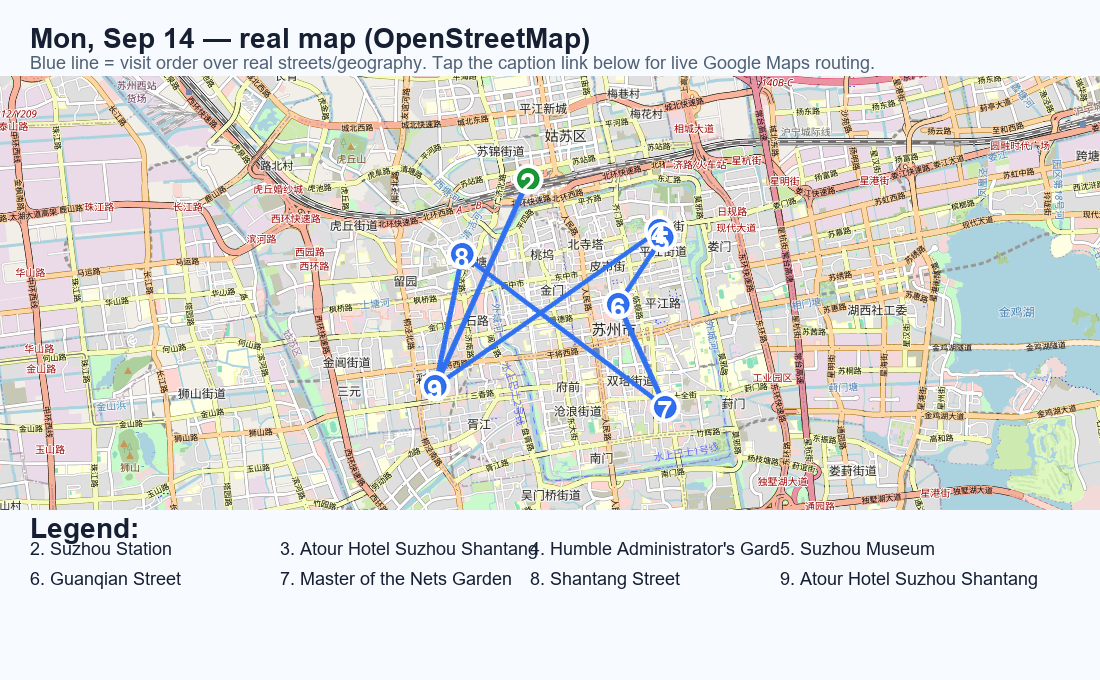
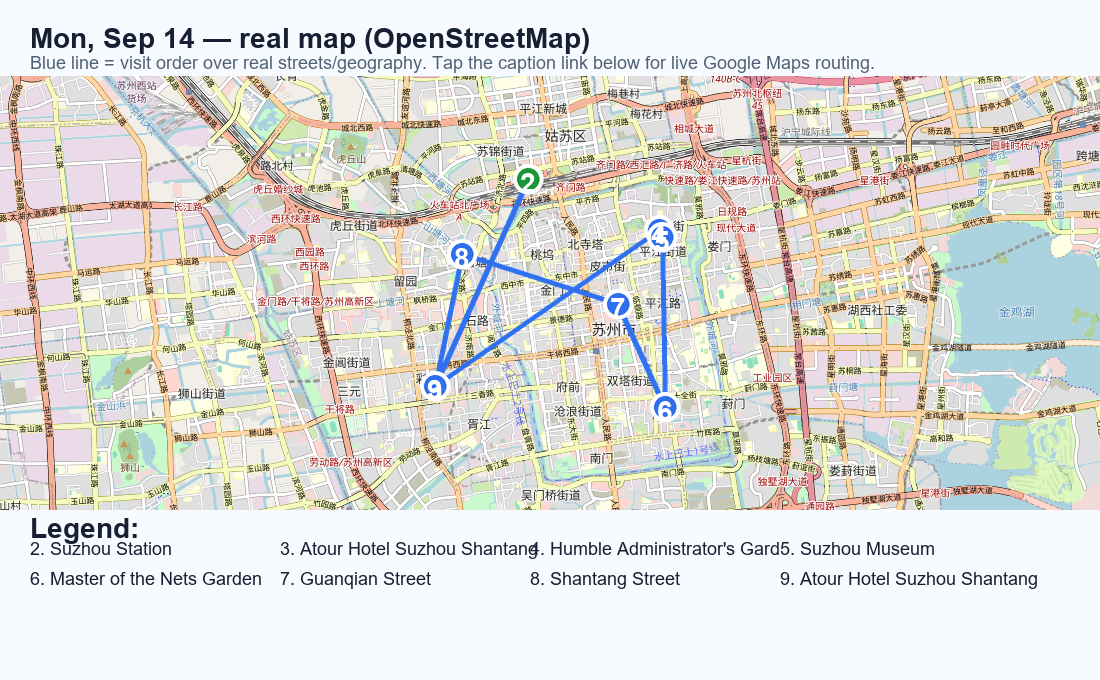
Sep 14: reorder Suzhou old-town loop to remove backtracking, renumber stops to match map
Reordered cards so Master of the Nets Garden (south old town) is visited right after Humble
Garden/Suzhou Museum (NE cluster) before returning north for lunch/Shantang, eliminating the
old zigzag where Nets Garden then Shantang crossed the old town twice. Numbered all named
stops with the map pin order for both EN and ZH text.

Copilot-Session: 5728fe09-5b5d-49bb-90e8-1375c7d7759c

diff --git a/Taipei-China-Itinerary.html b/Taipei-China-Itinerary.html
@@ -214,21 +214,23 @@ a{color:var(--acc)}
 </details>
 <details class="day" data-date="2026-09-14">
 <summary><span class="date">Mon, Sep 14</span><span class="hl en">Hongqiao → Suzhou old town</span><span class="hl zh">虹桥 → 苏州老城</span><span class="tag en">🚄 Gardens · Shantang</span><span class="tag zh">🚄 园林 · 山塘夜</span></summary>
-<div class="body"><ul class="plan"><li><span class="en">🚄 <b>Shanghai Hongqiao → Suzhou Station ✅ Booked</b> (<b>G8302</b>, 08:52–09:19, Gate 28B, 1st Class Car 07 Seat 08C, Order #EK92820804); drop luggage at <b>Atour Hotel Suzhou Shantang Street Guangjinan Road Metro Station</b> (Sep 14–15 booked, 1 family twin room with breakfast, No. 889 Ganjiang W. Rd., Gusu District).</span><span class="zh">🚄 <b>上海虹桥 → 苏州站 ✅ 已订</b>（<b>G8302</b> 08:52–09:19，检票口 28B，一等座 07车08C号，已支付 ￥67.0，订单号 EK92820804）；到后先去<b>苏州山塘街广济南路地铁站亚朵酒店</b>放行李（9/14–9/15 已订，1 间 1 晚，尊享亲子双床房含早，姑苏区干将西路889号）。</span></li>
-<li><span class="en">08:20–10:20 <b>Humble Administrator's Garden</b> → 10:25–10:40 <b>Suzhou Museum exterior only</b>. It is Monday and the museum interior is closed. Continue to a seated <b>Guanqian Street</b> lunch and protect the 12:20–14:15 hotel rest. <b>🍽 Lunch picks (Guanqian St, pick 1):</b> ① <b>Songhelou (松鹤楼)</b>, Taijian Alley 72 — 200-yr-old Suzhou-cuisine flagship, signature squirrel-shaped mandarin fish; ② <b>Deyuelou (得月楼)</b>, Taijian Alley 43 — classic sister restaurant, same dish plus stir-fried river shrimp; ③ <b>Guso Family Banquet (姑苏家宴·苏帮菜)</b> near Guanqian St — museum-linked, heritage-chef-run, garden-courtyard seating with occasional pingtan (评弹) performance.</span><span class="zh">08:20–10:20 <b>拙政园</b> → 10:25–10:40 <b>苏州博物馆仅看外观</b>；9/14 是周一，馆内闭馆。观前街坐下午餐，12:20–14:15 回酒店午休。<b>🍽 观前街午餐（选1家）：</b>①<b>松鹤楼（观前街店）</b>，太监弄72号——200多年苏帮菜老字号，招牌松鼠鳜鱼；②<b>得月楼（观前街店）</b>，太监弄43号——同为百年苏帮宴席名店，响油鳝糊、得月童鸡也出名；③<b>姑苏家宴·苏帮菜</b>（观前街附近）——苏帮菜博物馆联名、非遗传承人主理，园林造景，偶有评弹表演。</span></li>
-<li><span class="en">14:45–16:15 <b>Master of the Nets Garden</b>; after another short rest, go to <b>Shantang Street</b> for seated dinner, a canal cruise if operating, and only a 300–500 m illuminated stroll. <b>🍽 Dinner picks (Shantang St, pick 1):</b> ① <b>Guso Boat Banquet (姑苏船宴)</b>, near Baigong Ancestral Hall boat dock — dine aboard a lantern-lit canal boat while cruising, squirrel mandarin fish + osmanthus red-braised pork, book ≥3 days ahead (+86 175 2121 6208); ② <b>Rongyanglou (荣阳楼)</b> — century-old Shantang institution, homely classics like fried rice-flour dumplings and fresh-pork soup buns; ③ <b>Old Suzhou Tea House (老苏州茶酒楼)</b>, canal-facing — pingtan storytelling with dinner, seasonal Yangcheng Lake hairy crab in autumn.</span><span class="zh">14:45–16:15 <b>网师园</b>；休息后去<b>山塘街</b>坐下晚餐，游船如运营则乘船，只走300–500米灯光精华段。<b>🍽 山塘街晚餐（选1家）：</b>①<b>姑苏船宴（山塘街店）</b>，白公祠附近游船码头旁——画舫上边吃苏帮大菜边游山塘河，需提前≥3天预约（电话 +86 175 2121 6208）；②<b>荣阳楼（山塘街店）</b>——百年老店，油氽团子、鲜肉汤包等市井家常味；③<b>老苏州茶酒楼</b>，面朝山塘河——边听评弹边用餐，秋季有阳澄湖大闸蟹时令菜。</span></li>
-<li><span class="en"><b>Tiger Hill is excluded:</b> it needs roughly 2.5–4 hours plus 45–70 minutes of detour transport, with sloping/uneven paving and stairs unsuitable for Mom; cutting it protects the midday rest window. Detail: <a href='Suzhou-Day-Plan.md'>Suzhou-Day-Plan.md ↗</a></span><span class="zh"><b>虎丘删除：</b>单独约2.5–4小时，另加45–70分钟绕行，斜坡/石路/台阶不适合Mom，也会破坏午休。详案：<a href='Suzhou-Day-Plan.md'>Suzhou-Day-Plan.md ↗</a></span></li></ul>
+<div class="body"><ul class="plan"><li><span class="en"><b>Numbers ②–⑨ below match the map pin order, so you can follow along side by side.</b></span><span class="zh"><b>下方数字②–⑨与地图标点顺序一一对应，可对照阅读。</b></span></li>
+<li><span class="en">🚄 <b>① Shanghai Hongqiao → ② Suzhou Station ✅ Booked</b> (<b>G8302</b>, 08:52–09:19, Gate 28B, 1st Class Car 07 Seat 08C, Order #EK92820804); drop luggage at <b>③ Atour Hotel Suzhou Shantang Street Guangjinan Road Metro Station</b> (Sep 14–15 booked, 1 family twin room with breakfast, No. 889 Ganjiang W. Rd., Gusu District).</span><span class="zh">🚄 <b>①上海虹桥 → ②苏州站 ✅ 已订</b>（<b>G8302</b> 08:52–09:19，检票口 28B，一等座 07车08C号，已支付 ￥67.0，订单号 EK92820804）；到后先去<b>③苏州山塘街广济南路地铁站亚朵酒店</b>放行李（9/14–9/15 已订，1 间 1 晚，尊享亲子双床房含早，姑苏区干将西路889号）。</span></li>
+<li><span class="en">08:20–10:20 <b>④ Humble Administrator's Garden</b> → 10:25–10:40 <b>⑤ Suzhou Museum exterior only</b> (adjacent, same corner of the old town). It is Monday and the museum interior is closed. Continue straight to <b>⑥ Master of the Nets Garden</b> ~10:45–12:00, a short hop south, before doubling back toward the hotel side — this avoids the old zigzag of crossing the old town twice.</span><span class="zh">08:20–10:20 <b>④拙政园</b> → 10:25–10:40 <b>⑤苏州博物馆仅看外观</b>（紧邻拙政园）；9/14 是周一，馆内闭馆。随即南下至<b>⑥网师园</b>，约10:45–12:00，避免再折返老城另一端。</span></li>
+<li><span class="en">12:15–14:00 seated <b>⑦ Guanqian Street</b> lunch, which also covers the midday rest — no separate hotel detour needed. <b>🍽 Lunch picks (Guanqian St, pick 1):</b> ① <b>Songhelou (松鹤楼)</b>, Taijian Alley 72 — 200-yr-old Suzhou-cuisine flagship, signature squirrel-shaped mandarin fish; ② <b>Deyuelou (得月楼)</b>, Taijian Alley 43 — classic sister restaurant, same dish plus stir-fried river shrimp; ③ <b>Guso Family Banquet (姑苏家宴·苏帮菜)</b> near Guanqian St — museum-linked, heritage-chef-run, garden-courtyard seating with occasional pingtan (评弹) performance.</span><span class="zh">12:15–14:00 到<b>⑦观前街</b>坐下午餐，兼作午休，无需再绕回酒店。<b>🍽 观前街午餐（选1家）：</b>①<b>松鹤楼（观前街店）</b>，太监弄72号——200多年苏帮菜老字号，招牌松鼠鳜鱼；②<b>得月楼（观前街店）</b>，太监弄43号——同为百年苏帮宴席名店，响油鳝糊、得月童鸡也出名；③<b>姑苏家宴·苏帮菜</b>（观前街附近）——苏帮菜博物馆联名、非遗传承人主理，园林造景，偶有评弹表演。</span></li>
+<li><span class="en">Late afternoon, head northwest to <b>⑧ Shantang Street</b> — close to the hotel — for seated dinner, a canal cruise if operating, and only a 300–500 m illuminated stroll, then walk back to <b>⑨ Atour Hotel</b> for the night. <b>🍽 Dinner picks (Shantang St, pick 1):</b> ① <b>Guso Boat Banquet (姑苏船宴)</b>, near Baigong Ancestral Hall boat dock — dine aboard a lantern-lit canal boat while cruising, squirrel mandarin fish + osmanthus red-braised pork, book ≥3 days ahead (+86 175 2121 6208); ② <b>Rongyanglou (荣阳楼)</b> — century-old Shantang institution, homely classics like fried rice-flour dumplings and fresh-pork soup buns; ③ <b>Old Suzhou Tea House (老苏州茶酒楼)</b>, canal-facing — pingtan storytelling with dinner, seasonal Yangcheng Lake hairy crab in autumn.</span><span class="zh">傍晚往西北去<b>⑧山塘街</b>（离酒店最近）坐下晚餐，游船如运营则乘船，只走300–500米灯光精华段，随后步行回<b>⑨亚朵酒店</b>过夜。<b>🍽 山塘街晚餐（选1家）：</b>①<b>姑苏船宴（山塘街店）</b>，白公祠附近游船码头旁——画舫上边吃苏帮大菜边游山塘河，需提前≥3天预约（电话 +86 175 2121 6208）；②<b>荣阳楼（山塘街店）</b>——百年老店，油氽团子、鲜肉汤包等市井家常味；③<b>老苏州茶酒楼</b>，面朝山塘河——边听评弹边用餐，秋季有阳澄湖大闸蟹时令菜。</span></li>
+<li><span class="en"><b>Tiger Hill is excluded:</b> it needs roughly 2.5–4 hours plus 45–70 minutes of detour transport, with sloping/uneven paving and stairs unsuitable for Mom; cutting it keeps today's loop compact and non-backtracking. Detail: <a href='Suzhou-Day-Plan.md'>Suzhou-Day-Plan.md ↗</a></span><span class="zh"><b>虎丘删除：</b>单独约2.5–4小时，另加45–70分钟绕行，斜坡/石路/台阶不适合Mom，删除后今日动线更紧凑不折返。详案：<a href='Suzhou-Day-Plan.md'>Suzhou-Day-Plan.md ↗</a></span></li></ul>
 <figure class="daymap">
 <a href="itinerary-maps/day-2026-09-14.png" target="_blank" rel="noopener"><img loading="lazy" src="itinerary-maps/day-2026-09-14.png" alt="Daily combined map for Mon, Sep 14"></a>
-<figcaption><span class="en">Combined daily map on real OpenStreetMap tiles (straight-line visit order, not turn-by-turn routing).</span><span class="zh">每日合并地图（基于真实 OpenStreetMap 地图瓦片，直线示意访问顺序，不代表实际道路导航）。</span><br><span class="en">① Shanghai Hongqiao HSR → ② Suzhou Station → ③ Atour Hotel Suzhou Shantang Street Guangjinan Road Metro Station ✅ booked → ④ Humble Administrator&amp;#x27;s Garden → ⑤ Suzhou Museum → ⑥ Guanqian Street → ⑦ Master of the Nets Garden → ⑧ Shantang Street → ⑨ Atour Hotel Suzhou Shantang Street Guangjinan Road Metro Station ✅ booked</span><span class="zh">① 上海虹桥站 → ② 苏州站 → ③ 苏州山塘街广济南路地铁站亚朵酒店 ✅ 已订 → ④ 拙政园 → ⑤ 苏州博物馆 → ⑥ 观前街 → ⑦ 网师园 → ⑧ 山塘街 → ⑨ 苏州山塘街广济南路地铁站亚朵酒店 ✅ 已订</span><br><a class="pin" href="https://www.google.com/maps/dir/?api=1&origin=31.19430%2C121.32020&destination=31.30255%2C120.59057&travelmode=driving&waypoints=31.33290%2C120.60640%7C31.30255%2C120.59057%7C31.32550%2C120.62900%7C31.32450%2C120.62940%7C31.31460%2C120.62190%7C31.29960%2C120.62990%7C31.32200%2C120.59510" target="_blank" rel="noopener"><span class="en">🧭 Open multi-stop route in Google Maps</span><span class="zh">🧭 在 Google Maps 打开多点路线</span></a></figcaption>
+<figcaption><span class="en">Combined daily map on real OpenStreetMap tiles (straight-line visit order, not turn-by-turn routing).</span><span class="zh">每日合并地图（基于真实 OpenStreetMap 地图瓦片，直线示意访问顺序，不代表实际道路导航）。</span><br><span class="en">① Shanghai Hongqiao HSR → ② Suzhou Station → ③ Atour Hotel Suzhou Shantang Street Guangjinan Road Metro Station ✅ booked → ④ Humble Administrator&amp;#x27;s Garden → ⑤ Suzhou Museum → ⑥ Master of the Nets Garden → ⑦ Guanqian Street → ⑧ Shantang Street → ⑨ Atour Hotel Suzhou Shantang Street Guangjinan Road Metro Station ✅ booked</span><span class="zh">① 上海虹桥站 → ② 苏州站 → ③ 苏州山塘街广济南路地铁站亚朵酒店 ✅ 已订 → ④ 拙政园 → ⑤ 苏州博物馆 → ⑥ 网师园 → ⑦ 观前街 → ⑧ 山塘街 → ⑨ 苏州山塘街广济南路地铁站亚朵酒店 ✅ 已订</span><br><a class="pin" href="https://www.google.com/maps/dir/?api=1&origin=31.19430%2C121.32020&destination=31.30255%2C120.59057&travelmode=driving&waypoints=31.33290%2C120.60640%7C31.30255%2C120.59057%7C31.32550%2C120.62900%7C31.32450%2C120.62940%7C31.29960%2C120.62990%7C31.31460%2C120.62190%7C31.32200%2C120.59510" target="_blank" rel="noopener"><span class="en">🧭 Open multi-stop route in Google Maps</span><span class="zh">🧭 在 Google Maps 打开多点路线</span></a></figcaption>
 </figure>
 <div class="grid"><figure class="card k-rail"><img class="photo" loading="lazy" src="itinerary-images/shanghai_hongqiao.jpg" alt="Shanghai Hongqiao HSR"><figcaption><span class="cn en">Shanghai Hongqiao HSR</span><span class="cn zh">上海虹桥站</span><span class="cc en">Arrive Shanghai (metro to the Bund)</span><span class="cc zh">抵达上海（乘地铁去外滩）</span><a class="pin" href="https://www.google.com/maps/search/?api=1&query=31.19430,121.32020" target="_blank" rel="noopener"><span class="en">📍 Open in Google Maps</span><span class="zh">📍 在 Google Maps 中打开</span></a></figcaption></figure>
 <figure class="card k-rail"><img class="photo" loading="lazy" src="itinerary-images/suzhou_st.jpg" alt="Suzhou Station"><figcaption><span class="cn en">Suzhou Station</span><span class="cn zh">苏州站</span><span class="cc en">Arrive Suzhou old town</span><span class="cc zh">抵达苏州古城</span><a class="pin" href="https://www.google.com/maps/search/?api=1&query=31.33290,120.60640" target="_blank" rel="noopener"><span class="en">📍 Open in Google Maps</span><span class="zh">📍 在 Google Maps 中打开</span></a></figcaption></figure>
 <figure class="card k-attr"><img class="photo" loading="lazy" src="itinerary-images/suzhou_hotel.jpg" alt="Atour Hotel Suzhou Shantang Street Guangjinan Road Metro Station ✅ booked"><figcaption><span class="cn en">Atour Hotel Suzhou Shantang Street Guangjinan Road Metro Station ✅ booked</span><span class="cn zh">苏州山塘街广济南路地铁站亚朵酒店 ✅ 已订</span><span class="cc en">Booked Sep 14–15 · No. 889 Ganjiang W. Rd., Gusu District</span><span class="cc zh">9/14–9/15 已订 · 姑苏区干将西路889号</span><a class="pin" href="https://www.google.com/maps/search/?api=1&query=31.30255,120.59057" target="_blank" rel="noopener"><span class="en">📍 Open in Google Maps</span><span class="zh">📍 在 Google Maps 中打开</span></a></figcaption></figure>
 <figure class="card k-attr"><img class="photo" loading="lazy" src="itinerary-images/humble_garden.jpg" alt="Humble Administrator&#x27;s Garden"><figcaption><span class="cn en">Humble Administrator&#x27;s Garden</span><span class="cn zh">拙政园</span><span class="cc en">UNESCO — grandest Suzhou garden</span><span class="cc zh">世界遗产 — 苏州最大名园</span><a class="pin" href="https://www.google.com/maps/search/?api=1&query=31.32550,120.62900" target="_blank" rel="noopener"><span class="en">📍 Open in Google Maps</span><span class="zh">📍 在 Google Maps 中打开</span></a></figcaption></figure>
 <figure class="card k-attr"><img class="photo" loading="lazy" src="itinerary-images/suzhou_museum.jpg" alt="Suzhou Museum"><figcaption><span class="cn en">Suzhou Museum</span><span class="cn zh">苏州博物馆</span><span class="cc en">I. M. Pei-designed museum next to Humble Administrator&#x27;s Garden</span><span class="cc zh">贝聿铭设计；紧邻拙政园</span><a class="pin" href="https://www.google.com/maps/search/?api=1&query=31.32450,120.62940" target="_blank" rel="noopener"><span class="en">📍 Open in Google Maps</span><span class="zh">📍 在 Google Maps 中打开</span></a></figcaption></figure>
-<figure class="card k-attr"><img class="photo" loading="lazy" src="itinerary-images/guanqian.jpg" alt="Guanqian Street"><figcaption><span class="cn en">Guanqian Street</span><span class="cn zh">观前街</span><span class="cc en">Seated Suzhou old-town lunch street</span><span class="cc zh">苏州老城坐下吃午餐的顺路街区</span><a class="pin" href="https://www.google.com/maps/search/?api=1&query=31.31460,120.62190" target="_blank" rel="noopener"><span class="en">📍 Open in Google Maps</span><span class="zh">📍 在 Google Maps 中打开</span></a></figcaption></figure>
 <figure class="card k-attr"><img class="photo" loading="lazy" src="itinerary-images/nets_garden.jpg" alt="Master of the Nets Garden"><figcaption><span class="cn en">Master of the Nets Garden</span><span class="cn zh">网师园</span><span class="cc en">Compact classic garden; easier afternoon visit</span><span class="cc zh">小而精的古典园林，下午慢看更省力</span><a class="pin" href="https://www.google.com/maps/search/?api=1&query=31.29960,120.62990" target="_blank" rel="noopener"><span class="en">📍 Open in Google Maps</span><span class="zh">📍 在 Google Maps 中打开</span></a></figcaption></figure>
+<figure class="card k-attr"><img class="photo" loading="lazy" src="itinerary-images/guanqian.jpg" alt="Guanqian Street"><figcaption><span class="cn en">Guanqian Street</span><span class="cn zh">观前街</span><span class="cc en">Seated Suzhou old-town lunch street</span><span class="cc zh">苏州老城坐下吃午餐的顺路街区</span><a class="pin" href="https://www.google.com/maps/search/?api=1&query=31.31460,120.62190" target="_blank" rel="noopener"><span class="en">📍 Open in Google Maps</span><span class="zh">📍 在 Google Maps 中打开</span></a></figcaption></figure>
 <figure class="card k-attr"><img class="photo" loading="lazy" src="itinerary-images/shantang.jpg" alt="Shantang Street"><figcaption><span class="cn en">Shantang Street</span><span class="cn zh">山塘街</span><span class="cc en">Seated dinner, canal cruise if operating, and a 300–500 m illuminated stroll</span><span class="cc zh">坐下晚餐；游船如运营；灯光精华段仅走300–500米</span><a class="pin" href="https://www.google.com/maps/search/?api=1&query=31.32200,120.59510" target="_blank" rel="noopener"><span class="en">📍 Open in Google Maps</span><span class="zh">📍 在 Google Maps 中打开</span></a></figcaption></figure>
 <figure class="card k-attr"><img class="photo" loading="lazy" src="itinerary-images/suzhou_hotel.jpg" alt="Atour Hotel Suzhou Shantang Street Guangjinan Road Metro Station ✅ booked"><figcaption><span class="cn en">Atour Hotel Suzhou Shantang Street Guangjinan Road Metro Station ✅ booked</span><span class="cn zh">苏州山塘街广济南路地铁站亚朵酒店 ✅ 已订</span><span class="cc en">Booked Sep 14–15 · No. 889 Ganjiang W. Rd., Gusu District</span><span class="cc zh">9/14–9/15 已订 · 姑苏区干将西路889号</span><a class="pin" href="https://www.google.com/maps/search/?api=1&query=31.30255,120.59057" target="_blank" rel="noopener"><span class="en">📍 Open in Google Maps</span><span class="zh">📍 在 Google Maps 中打开</span></a></figcaption></figure></div></div>
 </details>

diff --git a/index.html b/index.html
@@ -214,21 +214,23 @@ a{color:var(--acc)}
 </details>
 <details class="day" data-date="2026-09-14">
 <summary><span class="date">Mon, Sep 14</span><span class="hl en">Hongqiao → Suzhou old town</span><span class="hl zh">虹桥 → 苏州老城</span><span class="tag en">🚄 Gardens · Shantang</span><span class="tag zh">🚄 园林 · 山塘夜</span></summary>
-<div class="body"><ul class="plan"><li><span class="en">🚄 <b>Shanghai Hongqiao → Suzhou Station ✅ Booked</b> (<b>G8302</b>, 08:52–09:19, Gate 28B, 1st Class Car 07 Seat 08C, Order #EK92820804); drop luggage at <b>Atour Hotel Suzhou Shantang Street Guangjinan Road Metro Station</b> (Sep 14–15 booked, 1 family twin room with breakfast, No. 889 Ganjiang W. Rd., Gusu District).</span><span class="zh">🚄 <b>上海虹桥 → 苏州站 ✅ 已订</b>（<b>G8302</b> 08:52–09:19，检票口 28B，一等座 07车08C号，已支付 ￥67.0，订单号 EK92820804）；到后先去<b>苏州山塘街广济南路地铁站亚朵酒店</b>放行李（9/14–9/15 已订，1 间 1 晚，尊享亲子双床房含早，姑苏区干将西路889号）。</span></li>
-<li><span class="en">08:20–10:20 <b>Humble Administrator's Garden</b> → 10:25–10:40 <b>Suzhou Museum exterior only</b>. It is Monday and the museum interior is closed. Continue to a seated <b>Guanqian Street</b> lunch and protect the 12:20–14:15 hotel rest. <b>🍽 Lunch picks (Guanqian St, pick 1):</b> ① <b>Songhelou (松鹤楼)</b>, Taijian Alley 72 — 200-yr-old Suzhou-cuisine flagship, signature squirrel-shaped mandarin fish; ② <b>Deyuelou (得月楼)</b>, Taijian Alley 43 — classic sister restaurant, same dish plus stir-fried river shrimp; ③ <b>Guso Family Banquet (姑苏家宴·苏帮菜)</b> near Guanqian St — museum-linked, heritage-chef-run, garden-courtyard seating with occasional pingtan (评弹) performance.</span><span class="zh">08:20–10:20 <b>拙政园</b> → 10:25–10:40 <b>苏州博物馆仅看外观</b>；9/14 是周一，馆内闭馆。观前街坐下午餐，12:20–14:15 回酒店午休。<b>🍽 观前街午餐（选1家）：</b>①<b>松鹤楼（观前街店）</b>，太监弄72号——200多年苏帮菜老字号，招牌松鼠鳜鱼；②<b>得月楼（观前街店）</b>，太监弄43号——同为百年苏帮宴席名店，响油鳝糊、得月童鸡也出名；③<b>姑苏家宴·苏帮菜</b>（观前街附近）——苏帮菜博物馆联名、非遗传承人主理，园林造景，偶有评弹表演。</span></li>
-<li><span class="en">14:45–16:15 <b>Master of the Nets Garden</b>; after another short rest, go to <b>Shantang Street</b> for seated dinner, a canal cruise if operating, and only a 300–500 m illuminated stroll. <b>🍽 Dinner picks (Shantang St, pick 1):</b> ① <b>Guso Boat Banquet (姑苏船宴)</b>, near Baigong Ancestral Hall boat dock — dine aboard a lantern-lit canal boat while cruising, squirrel mandarin fish + osmanthus red-braised pork, book ≥3 days ahead (+86 175 2121 6208); ② <b>Rongyanglou (荣阳楼)</b> — century-old Shantang institution, homely classics like fried rice-flour dumplings and fresh-pork soup buns; ③ <b>Old Suzhou Tea House (老苏州茶酒楼)</b>, canal-facing — pingtan storytelling with dinner, seasonal Yangcheng Lake hairy crab in autumn.</span><span class="zh">14:45–16:15 <b>网师园</b>；休息后去<b>山塘街</b>坐下晚餐，游船如运营则乘船，只走300–500米灯光精华段。<b>🍽 山塘街晚餐（选1家）：</b>①<b>姑苏船宴（山塘街店）</b>，白公祠附近游船码头旁——画舫上边吃苏帮大菜边游山塘河，需提前≥3天预约（电话 +86 175 2121 6208）；②<b>荣阳楼（山塘街店）</b>——百年老店，油氽团子、鲜肉汤包等市井家常味；③<b>老苏州茶酒楼</b>，面朝山塘河——边听评弹边用餐，秋季有阳澄湖大闸蟹时令菜。</span></li>
-<li><span class="en"><b>Tiger Hill is excluded:</b> it needs roughly 2.5–4 hours plus 45–70 minutes of detour transport, with sloping/uneven paving and stairs unsuitable for Mom; cutting it protects the midday rest window. Detail: <a href='Suzhou-Day-Plan.md'>Suzhou-Day-Plan.md ↗</a></span><span class="zh"><b>虎丘删除：</b>单独约2.5–4小时，另加45–70分钟绕行，斜坡/石路/台阶不适合Mom，也会破坏午休。详案：<a href='Suzhou-Day-Plan.md'>Suzhou-Day-Plan.md ↗</a></span></li></ul>
+<div class="body"><ul class="plan"><li><span class="en"><b>Numbers ②–⑨ below match the map pin order, so you can follow along side by side.</b></span><span class="zh"><b>下方数字②–⑨与地图标点顺序一一对应，可对照阅读。</b></span></li>
+<li><span class="en">🚄 <b>① Shanghai Hongqiao → ② Suzhou Station ✅ Booked</b> (<b>G8302</b>, 08:52–09:19, Gate 28B, 1st Class Car 07 Seat 08C, Order #EK92820804); drop luggage at <b>③ Atour Hotel Suzhou Shantang Street Guangjinan Road Metro Station</b> (Sep 14–15 booked, 1 family twin room with breakfast, No. 889 Ganjiang W. Rd., Gusu District).</span><span class="zh">🚄 <b>①上海虹桥 → ②苏州站 ✅ 已订</b>（<b>G8302</b> 08:52–09:19，检票口 28B，一等座 07车08C号，已支付 ￥67.0，订单号 EK92820804）；到后先去<b>③苏州山塘街广济南路地铁站亚朵酒店</b>放行李（9/14–9/15 已订，1 间 1 晚，尊享亲子双床房含早，姑苏区干将西路889号）。</span></li>
+<li><span class="en">08:20–10:20 <b>④ Humble Administrator's Garden</b> → 10:25–10:40 <b>⑤ Suzhou Museum exterior only</b> (adjacent, same corner of the old town). It is Monday and the museum interior is closed. Continue straight to <b>⑥ Master of the Nets Garden</b> ~10:45–12:00, a short hop south, before doubling back toward the hotel side — this avoids the old zigzag of crossing the old town twice.</span><span class="zh">08:20–10:20 <b>④拙政园</b> → 10:25–10:40 <b>⑤苏州博物馆仅看外观</b>（紧邻拙政园）；9/14 是周一，馆内闭馆。随即南下至<b>⑥网师园</b>，约10:45–12:00，避免再折返老城另一端。</span></li>
+<li><span class="en">12:15–14:00 seated <b>⑦ Guanqian Street</b> lunch, which also covers the midday rest — no separate hotel detour needed. <b>🍽 Lunch picks (Guanqian St, pick 1):</b> ① <b>Songhelou (松鹤楼)</b>, Taijian Alley 72 — 200-yr-old Suzhou-cuisine flagship, signature squirrel-shaped mandarin fish; ② <b>Deyuelou (得月楼)</b>, Taijian Alley 43 — classic sister restaurant, same dish plus stir-fried river shrimp; ③ <b>Guso Family Banquet (姑苏家宴·苏帮菜)</b> near Guanqian St — museum-linked, heritage-chef-run, garden-courtyard seating with occasional pingtan (评弹) performance.</span><span class="zh">12:15–14:00 到<b>⑦观前街</b>坐下午餐，兼作午休，无需再绕回酒店。<b>🍽 观前街午餐（选1家）：</b>①<b>松鹤楼（观前街店）</b>，太监弄72号——200多年苏帮菜老字号，招牌松鼠鳜鱼；②<b>得月楼（观前街店）</b>，太监弄43号——同为百年苏帮宴席名店，响油鳝糊、得月童鸡也出名；③<b>姑苏家宴·苏帮菜</b>（观前街附近）——苏帮菜博物馆联名、非遗传承人主理，园林造景，偶有评弹表演。</span></li>
+<li><span class="en">Late afternoon, head northwest to <b>⑧ Shantang Street</b> — close to the hotel — for seated dinner, a canal cruise if operating, and only a 300–500 m illuminated stroll, then walk back to <b>⑨ Atour Hotel</b> for the night. <b>🍽 Dinner picks (Shantang St, pick 1):</b> ① <b>Guso Boat Banquet (姑苏船宴)</b>, near Baigong Ancestral Hall boat dock — dine aboard a lantern-lit canal boat while cruising, squirrel mandarin fish + osmanthus red-braised pork, book ≥3 days ahead (+86 175 2121 6208); ② <b>Rongyanglou (荣阳楼)</b> — century-old Shantang institution, homely classics like fried rice-flour dumplings and fresh-pork soup buns; ③ <b>Old Suzhou Tea House (老苏州茶酒楼)</b>, canal-facing — pingtan storytelling with dinner, seasonal Yangcheng Lake hairy crab in autumn.</span><span class="zh">傍晚往西北去<b>⑧山塘街</b>（离酒店最近）坐下晚餐，游船如运营则乘船，只走300–500米灯光精华段，随后步行回<b>⑨亚朵酒店</b>过夜。<b>🍽 山塘街晚餐（选1家）：</b>①<b>姑苏船宴（山塘街店）</b>，白公祠附近游船码头旁——画舫上边吃苏帮大菜边游山塘河，需提前≥3天预约（电话 +86 175 2121 6208）；②<b>荣阳楼（山塘街店）</b>——百年老店，油氽团子、鲜肉汤包等市井家常味；③<b>老苏州茶酒楼</b>，面朝山塘河——边听评弹边用餐，秋季有阳澄湖大闸蟹时令菜。</span></li>
+<li><span class="en"><b>Tiger Hill is excluded:</b> it needs roughly 2.5–4 hours plus 45–70 minutes of detour transport, with sloping/uneven paving and stairs unsuitable for Mom; cutting it keeps today's loop compact and non-backtracking. Detail: <a href='Suzhou-Day-Plan.md'>Suzhou-Day-Plan.md ↗</a></span><span class="zh"><b>虎丘删除：</b>单独约2.5–4小时，另加45–70分钟绕行，斜坡/石路/台阶不适合Mom，删除后今日动线更紧凑不折返。详案：<a href='Suzhou-Day-Plan.md'>Suzhou-Day-Plan.md ↗</a></span></li></ul>
 <figure class="daymap">
 <a href="itinerary-maps/day-2026-09-14.png" target="_blank" rel="noopener"><img loading="lazy" src="itinerary-maps/day-2026-09-14.png" alt="Daily combined map for Mon, Sep 14"></a>
-<figcaption><span class="en">Combined daily map on real OpenStreetMap tiles (straight-line visit order, not turn-by-turn routing).</span><span class="zh">每日合并地图（基于真实 OpenStreetMap 地图瓦片，直线示意访问顺序，不代表实际道路导航）。</span><br><span class="en">① Shanghai Hongqiao HSR → ② Suzhou Station → ③ Atour Hotel Suzhou Shantang Street Guangjinan Road Metro Station ✅ booked → ④ Humble Administrator&amp;#x27;s Garden → ⑤ Suzhou Museum → ⑥ Guanqian Street → ⑦ Master of the Nets Garden → ⑧ Shantang Street → ⑨ Atour Hotel Suzhou Shantang Street Guangjinan Road Metro Station ✅ booked</span><span class="zh">① 上海虹桥站 → ② 苏州站 → ③ 苏州山塘街广济南路地铁站亚朵酒店 ✅ 已订 → ④ 拙政园 → ⑤ 苏州博物馆 → ⑥ 观前街 → ⑦ 网师园 → ⑧ 山塘街 → ⑨ 苏州山塘街广济南路地铁站亚朵酒店 ✅ 已订</span><br><a class="pin" href="https://www.google.com/maps/dir/?api=1&origin=31.19430%2C121.32020&destination=31.30255%2C120.59057&travelmode=driving&waypoints=31.33290%2C120.60640%7C31.30255%2C120.59057%7C31.32550%2C120.62900%7C31.32450%2C120.62940%7C31.31460%2C120.62190%7C31.29960%2C120.62990%7C31.32200%2C120.59510" target="_blank" rel="noopener"><span class="en">🧭 Open multi-stop route in Google Maps</span><span class="zh">🧭 在 Google Maps 打开多点路线</span></a></figcaption>
+<figcaption><span class="en">Combined daily map on real OpenStreetMap tiles (straight-line visit order, not turn-by-turn routing).</span><span class="zh">每日合并地图（基于真实 OpenStreetMap 地图瓦片，直线示意访问顺序，不代表实际道路导航）。</span><br><span class="en">① Shanghai Hongqiao HSR → ② Suzhou Station → ③ Atour Hotel Suzhou Shantang Street Guangjinan Road Metro Station ✅ booked → ④ Humble Administrator&amp;#x27;s Garden → ⑤ Suzhou Museum → ⑥ Master of the Nets Garden → ⑦ Guanqian Street → ⑧ Shantang Street → ⑨ Atour Hotel Suzhou Shantang Street Guangjinan Road Metro Station ✅ booked</span><span class="zh">① 上海虹桥站 → ② 苏州站 → ③ 苏州山塘街广济南路地铁站亚朵酒店 ✅ 已订 → ④ 拙政园 → ⑤ 苏州博物馆 → ⑥ 网师园 → ⑦ 观前街 → ⑧ 山塘街 → ⑨ 苏州山塘街广济南路地铁站亚朵酒店 ✅ 已订</span><br><a class="pin" href="https://www.google.com/maps/dir/?api=1&origin=31.19430%2C121.32020&destination=31.30255%2C120.59057&travelmode=driving&waypoints=31.33290%2C120.60640%7C31.30255%2C120.59057%7C31.32550%2C120.62900%7C31.32450%2C120.62940%7C31.29960%2C120.62990%7C31.31460%2C120.62190%7C31.32200%2C120.59510" target="_blank" rel="noopener"><span class="en">🧭 Open multi-stop route in Google Maps</span><span class="zh">🧭 在 Google Maps 打开多点路线</span></a></figcaption>
 </figure>
 <div class="grid"><figure class="card k-rail"><img class="photo" loading="lazy" src="itinerary-images/shanghai_hongqiao.jpg" alt="Shanghai Hongqiao HSR"><figcaption><span class="cn en">Shanghai Hongqiao HSR</span><span class="cn zh">上海虹桥站</span><span class="cc en">Arrive Shanghai (metro to the Bund)</span><span class="cc zh">抵达上海（乘地铁去外滩）</span><a class="pin" href="https://www.google.com/maps/search/?api=1&query=31.19430,121.32020" target="_blank" rel="noopener"><span class="en">📍 Open in Google Maps</span><span class="zh">📍 在 Google Maps 中打开</span></a></figcaption></figure>
 <figure class="card k-rail"><img class="photo" loading="lazy" src="itinerary-images/suzhou_st.jpg" alt="Suzhou Station"><figcaption><span class="cn en">Suzhou Station</span><span class="cn zh">苏州站</span><span class="cc en">Arrive Suzhou old town</span><span class="cc zh">抵达苏州古城</span><a class="pin" href="https://www.google.com/maps/search/?api=1&query=31.33290,120.60640" target="_blank" rel="noopener"><span class="en">📍 Open in Google Maps</span><span class="zh">📍 在 Google Maps 中打开</span></a></figcaption></figure>
 <figure class="card k-attr"><img class="photo" loading="lazy" src="itinerary-images/suzhou_hotel.jpg" alt="Atour Hotel Suzhou Shantang Street Guangjinan Road Metro Station ✅ booked"><figcaption><span class="cn en">Atour Hotel Suzhou Shantang Street Guangjinan Road Metro Station ✅ booked</span><span class="cn zh">苏州山塘街广济南路地铁站亚朵酒店 ✅ 已订</span><span class="cc en">Booked Sep 14–15 · No. 889 Ganjiang W. Rd., Gusu District</span><span class="cc zh">9/14–9/15 已订 · 姑苏区干将西路889号</span><a class="pin" href="https://www.google.com/maps/search/?api=1&query=31.30255,120.59057" target="_blank" rel="noopener"><span class="en">📍 Open in Google Maps</span><span class="zh">📍 在 Google Maps 中打开</span></a></figcaption></figure>
 <figure class="card k-attr"><img class="photo" loading="lazy" src="itinerary-images/humble_garden.jpg" alt="Humble Administrator&#x27;s Garden"><figcaption><span class="cn en">Humble Administrator&#x27;s Garden</span><span class="cn zh">拙政园</span><span class="cc en">UNESCO — grandest Suzhou garden</span><span class="cc zh">世界遗产 — 苏州最大名园</span><a class="pin" href="https://www.google.com/maps/search/?api=1&query=31.32550,120.62900" target="_blank" rel="noopener"><span class="en">📍 Open in Google Maps</span><span class="zh">📍 在 Google Maps 中打开</span></a></figcaption></figure>
 <figure class="card k-attr"><img class="photo" loading="lazy" src="itinerary-images/suzhou_museum.jpg" alt="Suzhou Museum"><figcaption><span class="cn en">Suzhou Museum</span><span class="cn zh">苏州博物馆</span><span class="cc en">I. M. Pei-designed museum next to Humble Administrator&#x27;s Garden</span><span class="cc zh">贝聿铭设计；紧邻拙政园</span><a class="pin" href="https://www.google.com/maps/search/?api=1&query=31.32450,120.62940" target="_blank" rel="noopener"><span class="en">📍 Open in Google Maps</span><span class="zh">📍 在 Google Maps 中打开</span></a></figcaption></figure>
-<figure class="card k-attr"><img class="photo" loading="lazy" src="itinerary-images/guanqian.jpg" alt="Guanqian Street"><figcaption><span class="cn en">Guanqian Street</span><span class="cn zh">观前街</span><span class="cc en">Seated Suzhou old-town lunch street</span><span class="cc zh">苏州老城坐下吃午餐的顺路街区</span><a class="pin" href="https://www.google.com/maps/search/?api=1&query=31.31460,120.62190" target="_blank" rel="noopener"><span class="en">📍 Open in Google Maps</span><span class="zh">📍 在 Google Maps 中打开</span></a></figcaption></figure>
 <figure class="card k-attr"><img class="photo" loading="lazy" src="itinerary-images/nets_garden.jpg" alt="Master of the Nets Garden"><figcaption><span class="cn en">Master of the Nets Garden</span><span class="cn zh">网师园</span><span class="cc en">Compact classic garden; easier afternoon visit</span><span class="cc zh">小而精的古典园林，下午慢看更省力</span><a class="pin" href="https://www.google.com/maps/search/?api=1&query=31.29960,120.62990" target="_blank" rel="noopener"><span class="en">📍 Open in Google Maps</span><span class="zh">📍 在 Google Maps 中打开</span></a></figcaption></figure>
+<figure class="card k-attr"><img class="photo" loading="lazy" src="itinerary-images/guanqian.jpg" alt="Guanqian Street"><figcaption><span class="cn en">Guanqian Street</span><span class="cn zh">观前街</span><span class="cc en">Seated Suzhou old-town lunch street</span><span class="cc zh">苏州老城坐下吃午餐的顺路街区</span><a class="pin" href="https://www.google.com/maps/search/?api=1&query=31.31460,120.62190" target="_blank" rel="noopener"><span class="en">📍 Open in Google Maps</span><span class="zh">📍 在 Google Maps 中打开</span></a></figcaption></figure>
 <figure class="card k-attr"><img class="photo" loading="lazy" src="itinerary-images/shantang.jpg" alt="Shantang Street"><figcaption><span class="cn en">Shantang Street</span><span class="cn zh">山塘街</span><span class="cc en">Seated dinner, canal cruise if operating, and a 300–500 m illuminated stroll</span><span class="cc zh">坐下晚餐；游船如运营；灯光精华段仅走300–500米</span><a class="pin" href="https://www.google.com/maps/search/?api=1&query=31.32200,120.59510" target="_blank" rel="noopener"><span class="en">📍 Open in Google Maps</span><span class="zh">📍 在 Google Maps 中打开</span></a></figcaption></figure>
 <figure class="card k-attr"><img class="photo" loading="lazy" src="itinerary-images/suzhou_hotel.jpg" alt="Atour Hotel Suzhou Shantang Street Guangjinan Road Metro Station ✅ booked"><figcaption><span class="cn en">Atour Hotel Suzhou Shantang Street Guangjinan Road Metro Station ✅ booked</span><span class="cn zh">苏州山塘街广济南路地铁站亚朵酒店 ✅ 已订</span><span class="cc en">Booked Sep 14–15 · No. 889 Ganjiang W. Rd., Gusu District</span><span class="cc zh">9/14–9/15 已订 · 姑苏区干将西路889号</span><a class="pin" href="https://www.google.com/maps/search/?api=1&query=31.30255,120.59057" target="_blank" rel="noopener"><span class="en">📍 Open in Google Maps</span><span class="zh">📍 在 Google Maps 中打开</span></a></figcaption></figure></div></div>
 </details>
